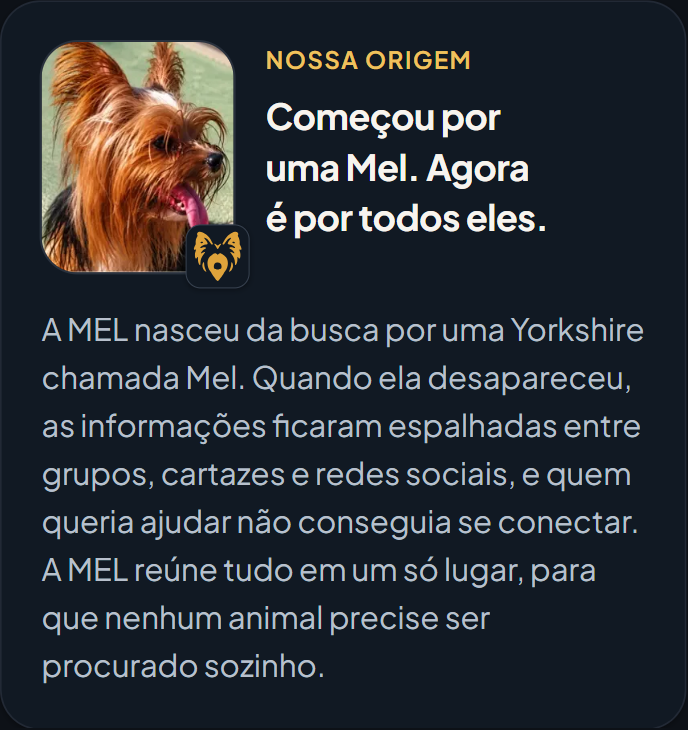
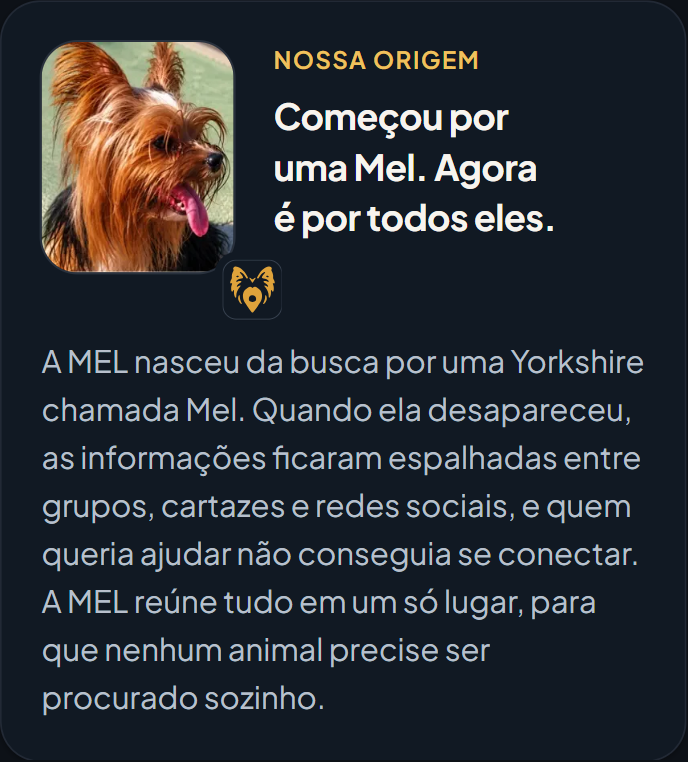
fix(brand): selo do Mel Beacon fora da foto da Mel na história da marca

Changed region(s): [[0.061, 0.0301, 0.9462, 0.874], [0.061, 0.9041, 0.4578, 0.9342], [0.3052, 0.0603, 0.3358, 0.0904]]

diff --git a/apps/web/components/brand/BrandStory.tsx b/apps/web/components/brand/BrandStory.tsx
@@ -8,7 +8,7 @@ import { MelMark } from "./MelLogo";
 export function BrandStory() {
   return (
     <section aria-labelledby="historia" className="overflow-hidden rounded-card border border-border/70 bg-surface-warm p-5 shadow-sm">
-      <div className="flex items-start gap-4">
+      <div className="flex items-start gap-5">
         <figure className="relative shrink-0">
           <Image
             src="/brand/mel-origem.webp"
@@ -17,8 +17,9 @@ export function BrandStory() {
             height={115}
             className="h-[115px] w-24 rounded-lg object-cover object-top ring-1 ring-border"
           />
-          <span className="absolute -right-2 -bottom-2 rounded-[23%] shadow-sm">
-            <MelMark size={32} className="block" />
+          {/* Selo no canto, fora da foto: só toca a curva do canto (sem cobrir a Mel). */}
+          <span className="absolute -right-6 -bottom-6 rounded-[26%] shadow-sm ring-4 ring-surface-warm">
+            <MelMark size={30} className="block" />
           </span>
           <figcaption className="sr-only">A Mel, que deu origem à MEL.</figcaption>
         </figure>
@@ -29,7 +30,7 @@ export function BrandStory() {
           </h2>
         </div>
       </div>
-      <p className="mt-4 text-text-secondary">
+      <p className="mt-8 text-text-secondary">
         A MEL nasceu da busca por uma Yorkshire chamada Mel. Quando ela desapareceu, as informações ficaram espalhadas
         entre grupos, cartazes e redes sociais, e quem queria ajudar não conseguia se conectar. A MEL reúne tudo em um só
         lugar, para que nenhum animal precise ser procurado sozinho.
